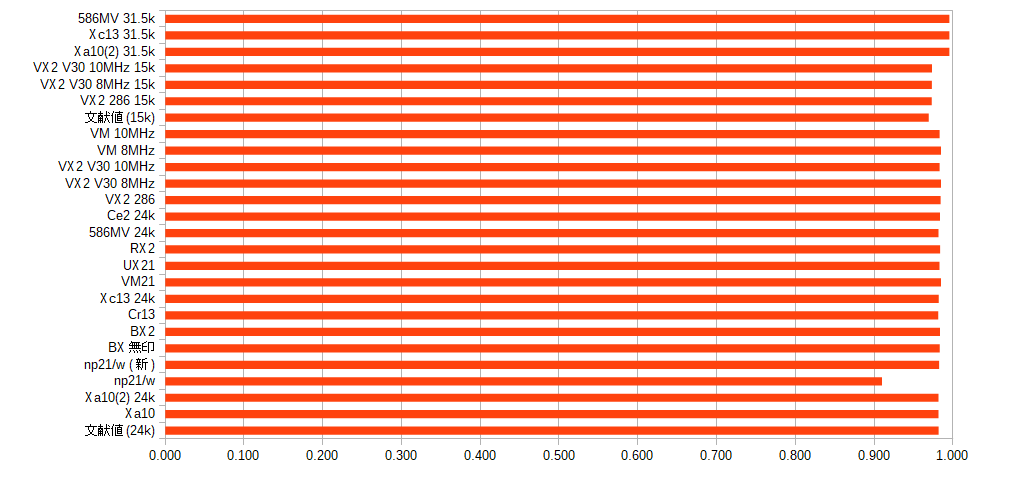
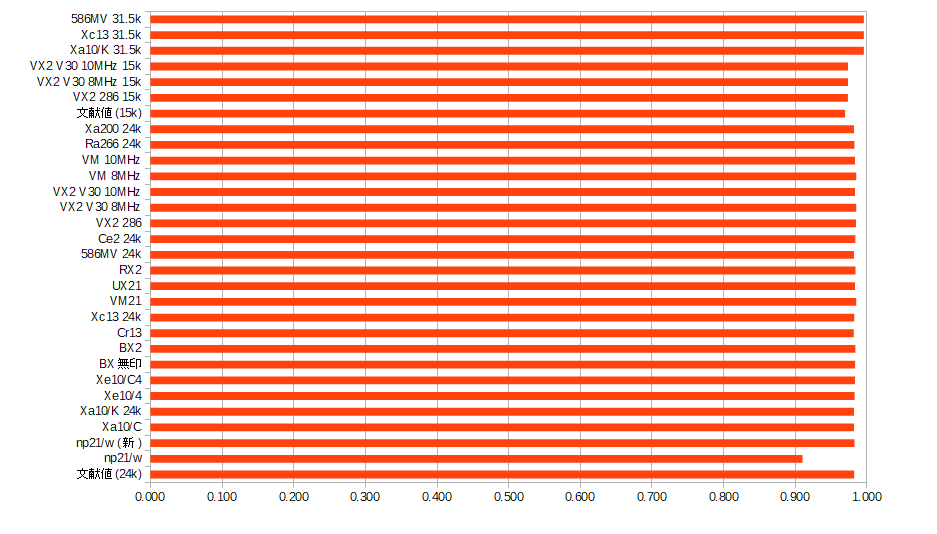
VSync調査改訂

diff --git a/docs/vsync.html b/docs/vsync.html
@@ -78,34 +78,34 @@
 			min-width: 80px;
 		}
 	</style>
-	<div  style="margin:16px;" class="tablediv">
+	<div style="margin:16px;" class="tablediv">
 	<table style="width:auto;" class="vsync-table" border=1>
 		<thead>
 		<tr>
-		<th></th><th>文献値(24k)</th><th>Xa10/C</th><th>Xa10/K 24k</th><th>np21/w(旧)</th><th>np21/w(新)</th><th>BX無印</th><th>BX2</th><th>Cr13</th><th>Xc13 24k</th><th>VM21</th><th>UX21</th><th>RX2</th><th>586MV 24k</th><th>Ce2 24k</th><th>VX2 286</th><th>VX2 V30 8MHz</th><th>VX2 V30 10MHz</th><th>VM 8MHz</th><th>VM 10MHz</th><th>文献値(15k)</th><th>VX2 286 15k</th><th>VX2 V30 8MHz 15k</th><th>VX2 V30 10MHz 15k</th><th>Xa10/K 31.5k</th><th>Xc13 31.5k</th><th>586MV 31.5k</th><th>Ce2 31k</th>
+		<th></th><th>文献値(24k)</th><th>np21/w</th><th>np21/w (新)</th><th>Xa10/C</th><th>Xa10/K 24k</th><th>Xe10/4</th><th>Xe10/C4</th><th>BX無印</th><th>BX2</th><th>Cr13</th><th>Xc13 24k</th><th>VM21</th><th>UX21</th><th>RX2</th><th>586MV 24k</th><th>Ce2 24k</th><th>VX2 286</th><th>VX2 V30 8MHz</th><th>VX2 V30 10MHz</th><th>VM 8MHz</th><th>VM 10MHz</th><th>Ra266 24k</th><th>Xa200 24k</th><th>文献値(15k)</th><th>VX2 286 15k</th><th>VX2 V30 8MHz 15k</th><th>VX2 V30 10MHz 15k</th><th>Xa10/K 31.5k</th><th>Xc13 31.5k</th><th>586MV 31.5k</th><th>Ce2 31.5k</th><th>Ra266 31.5k</th><th>Xa200 31.5k</th>
 		</tr>
 		</thead>
 		<tbody>
 		<tr>
-		<th>VSync IRQ</th><td>?</td><td>8702</td><td>7725</td><td>2437</td><td>14055</td><td>3677</td><td>4963</td><td>8872</td><td>8825</td><td>525</td><td>1283</td><td>1528</td><td>7481</td><td>4964</td><td>1086</td><td>525</td><td>648</td><td>525</td><td>648</td><td>?</td><td>984</td><td>476</td><td>588</td><td>6284</td><td>7178</td><td>6054</td><td>4052</td>
+		<th>VSync IRQ</th><td>?</td><td>2437</td><td>14055</td><td>8702</td><td>7725</td><td>11225</td><td>8976</td><td>3677</td><td>4963</td><td>8872</td><td>8825</td><td>525</td><td>1283</td><td>1528</td><td>7481</td><td>4964</td><td>1086</td><td>525</td><td>648</td><td>525</td><td>648</td><td>8624</td><td>10877</td><td>?</td><td>984</td><td>476</td><td>588</td><td>6284</td><td>7178</td><td>6054</td><td>4052</td><td>7015</td><td>8847</td>
 		</tr>
 		<tr>
-		<th>VSync High</th><td>17.4</td><td>8544</td><td>7725</td><td>2437</td><td>14055</td><td>3677</td><td>4963</td><td>8873</td><td>8826</td><td>525</td><td>1283</td><td>1528</td><td>7482</td><td>4964</td><td>1086</td><td>525</td><td>648</td><td>525</td><td>648</td><td>15.83</td><td>984</td><td>476</td><td>588</td><td>6284</td><td>7179</td><td>6054</td><td>4052</td>
+		<th>VSync High</th><td>17.4</td><td>2437</td><td>14055</td><td>8544</td><td>7725</td><td>11030</td><td>8825</td><td>3677</td><td>4963</td><td>8873</td><td>8826</td><td>525</td><td>1283</td><td>1528</td><td>7482</td><td>4964</td><td>1086</td><td>525</td><td>648</td><td>525</td><td>648</td><td>8625</td><td>10877</td><td>15.83</td><td>984</td><td>476</td><td>588</td><td>6284</td><td>7179</td><td>6054</td><td>4052</td><td>7016</td><td>8848</td>
 		</tr>
 		<tr>
-		<th>VSync Low</th><td>17.72</td><td>8702</td><td>7868</td><td>2678</td><td>14304</td><td>3739</td><td>5045</td><td>9040</td><td>8987</td><td>533</td><td>1305</td><td>1553</td><td>7620</td><td>5046</td><td>1103</td><td>533</td><td>659</td><td>533</td><td>659</td><td>16.33</td><td>1011</td><td>489</td><td>604</td><td>6312</td><td>7211</td><td>6081</td><td>4068</td>
+		<th>VSync Low</th><td>17.72</td><td>2678</td><td>14304</td><td>8702</td><td>7868</td><td>11224</td><td>8976</td><td>3739</td><td>5045</td><td>9040</td><td>8987</td><td>533</td><td>1305</td><td>1553</td><td>7620</td><td>5046</td><td>1103</td><td>533</td><td>659</td><td>533</td><td>659</td><td>8780</td><td>11079</td><td>16.33</td><td>1011</td><td>489</td><td>604</td><td>6312</td><td>7211</td><td>6081</td><td>4068</td><td>7046</td><td>8887</td>
 		</tr>
 		<tr>
-		<th>Ratio</th><td>0.982</td><td>0.982</td><td>0.982</td><td>0.910</td><td>0.983</td><td>0.983</td><td>0.984</td><td>0.982</td><td>0.982</td><td>0.985</td><td>0.983</td><td>0.984</td><td>0.982</td><td>0.984</td><td>0.985</td><td>0.985</td><td>0.983</td><td>0.985</td><td>0.983</td><td>0.969</td><td>0.973</td><td>0.973</td><td>0.974</td><td>0.996</td><td>0.996</td><td>0.996</td><td>0.996</td>
+		<th>Ratio</th><td>0.982</td><td>0.910</td><td>0.983</td><td>0.982</td><td>0.982</td><td>0.983</td><td>0.983</td><td>0.983</td><td>0.984</td><td>0.982</td><td>0.982</td><td>0.985</td><td>0.983</td><td>0.984</td><td>0.982</td><td>0.984</td><td>0.985</td><td>0.985</td><td>0.983</td><td>0.985</td><td>0.983</td><td>0.982</td><td>0.982</td><td>0.969</td><td>0.973</td><td>0.973</td><td>0.974</td><td>0.996</td><td>0.996</td><td>0.996</td><td>0.996</td><td>0.996</td><td>0.996</td>
 		</tr>
 		<tr>
-		<th>割込位置</th><td>?</td><td>Low</td><td>High</td><td>High</td><td>High</td><td>High</td><td>High</td><td>High</td><td>High</td><td>High</td><td>High</td><td>High</td><td>High</td><td>High</td><td>High</td><td>High</td><td>High</td><td>High</td><td>High</td><td>?</td><td>High</td><td>High</td><td>High</td><td>High</td><td>High</td><td>High</td><td>High</td>
+		<th>割込位置</th><td>?</td><td>High</td><td>High</td><td>Low</td><td>High</td><td>Low</td><td>Low</td><td>High</td><td>High</td><td>High</td><td>High</td><td>High</td><td>High</td><td>High</td><td>High</td><td>High</td><td>High</td><td>High</td><td>High</td><td>High</td><td>High</td><td>High</td><td>High</td><td>?</td><td>High</td><td>High</td><td>High</td><td>High</td><td>High</td><td>High</td><td>High</td><td>High</td><td>High</td>
 		</tr>
 		</tbody>
 	</table>
 	</div>
 
-	<img src="./vsync/vsync.png">
+	<img src="./vsync/vsync.png?d=2">
 	<div>
 		<a href="https://drive.google.com/file/d/1wuQCVrhZ0pAtipXqhufMHsyG_AzOSHZn/view?usp=drive_link">元データ</a>
 	</div>
@@ -116,13 +116,25 @@
 	</p>
 	<ul>
 		<li>GDCステータスのVSYNCのビットが立つ区間は、VSyncの区間のみ（文献には他に該当する長さの区間がなく、24kと15kの結果が整合するため）</li>
-		<li>VSync割り込みが発生するタイミングは原則としてVSyncの区間の始まりの位置（例外は1件のみ）</li>
+		<li>VSync割り込みが発生するタイミングは原則としてVSyncの区間の始まりの位置（例外はXa10/C, Xe10）</li>
 	</ul>
 	<p>
 		15k, 24kは文献通り、31.5kは文献を持っていませんが、31.5k同士の結果は整合しています。
-		例外の1件の原因はよく分かりません。24k, 31.5kで計り直しても一貫してLowでした。
-		何か故障しているのかもしれません。が、回路の故障にしては不自然すぎる気がします。<br>
-		（追加情報）一方がXa10/Cで、もう一方がXa10/Kという差がありました。
+	</p>
+	<p>
+		一方で、割り込みのタイミングについては少数の例外があります。
+		Xa10/Cについては、24k, 31.5kで測り直しても一貫してLowでした。
+		Xe10も明らかにLowの結果になっています。
+		また、これらの機種よりも古くても新しくても割り込みタイミングはHighの位置になっています。
+	</p>
+	<p>
+		Xa10とXe10は結構構成が違っており、これらに共通するのは発売日がかなり近いという点だけに思えます。
+		つまり、この時期周辺で発売された機種だけVSync割り込みの位置が違っている可能性があります。
+		この付近の機種をお持ちの方はぜひVSIRRCHK.COMでタイミングを確認してみてください。
+	</p>
+	<p>
+		何故違っているのかについては恐らく関係者しか分からないでしょう。
+		互換性にほぼ影響がないと想定していた変更に影響があったので後で戻した、VSync信号の論理を勘違いしていて後で気付いて修正した、等があり得ると思います。
 	</p>
 	<p>
 		他の機種での結果が得られましたら今後も追記していきます。
